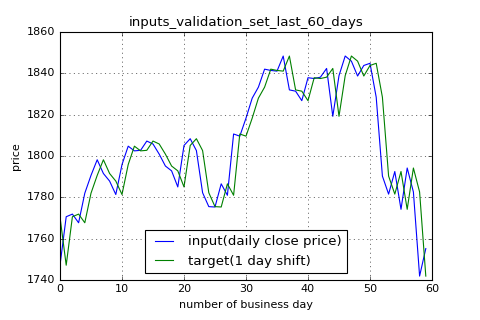
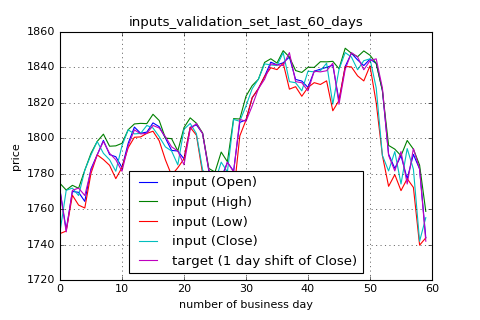
fix plotting issue, with 2000 epochs run results

diff --git a/helper.py b/helper.py
@@ -23,13 +23,12 @@ def data_split(X, y, test_size):
     X_test = X[split_idx:]
     y_test = y[split_idx:]
     
-    print("========================")
+    print("==================================================")
     print("Original total size = {}".format(total_len))
-    print("X_train.shape = {}".format(X_train.shape))
-    print("y_train.shape = {}".format(y_train.shape))
-    print("X: train size = {}, test size = {}".format(len(X_train), len(X_test)))
-    print("y: train size = {}, test size = {}".format(len(y_train), len(y_test)))
-    print("========================")
+    print("split ratio = {}, {}".format((1 - test_size), test_size))
+    print("First part: X.shape = {}, y.shape = {}".format(X_train.shape, y_train.shape))
+    print("Second part: X.shape = {}, y.shape = {}".format(X_test.shape, y_test.shape))
+    print("==================================================")
     
     return X_train, X_test, y_train, y_test
 
@@ -39,8 +38,10 @@ def data_preprocess(df, day_shift, date_list, feature_list):
     print("raw data df.head(): ")
     print(df.head())
     
+    print("==================================================")
     print("DATE_LIST = {}".format(date_list))
     print("FEATURE_LIST = {}".format(feature_list))
+    print("==================================================")
     
     extract_list = date_list + feature_list
     df = df[extract_list]
@@ -52,6 +53,7 @@ def data_preprocess(df, day_shift, date_list, feature_list):
         else:
             print("No missing data in feature of '{}'".format(feature))
     
+    print("==================================================")
     print("Extracted df.head(): ")
     print(df.head())
 
@@ -84,10 +86,14 @@ def plot_samples(title, x_label, y_label, data, line_label, images_dir, save_ima
     plt.title(title)
     plt.xlabel(x_label)
     plt.ylabel(y_label)
-
+    
+    # print("data[0].shape = {}".format(data[0].shape))
+    # print("len(data) = {}".format(len(data)))
+    # data[i] is np.array of m x n, which m = input length, n = feature length
     for i in range(len(data)):
         x = [idx for idx in range(len(data[i]))]
-        plt.plot(x, data[i], label = "{}".format(line_label[i]))
+        for line_idx in range(data[i].shape[1]):
+            plt.plot(x, data[i][:, line_idx], label = line_label[line_idx])
 
     plt.grid()
     
@@ -98,7 +104,7 @@ def plot_samples(title, x_label, y_label, data, line_label, images_dir, save_ima
     return None
 
 def plot_data(X_train_valid_test, y_train_valid_test, day_shift,
-              images_dir, save_images):
+              images_dir, save_images, feature_list):
     partial_day = 60
     postfix = "_last_" + str(partial_day) + "_days"
     title = ["inputs_" + "training_set" + postfix, 
@@ -106,23 +112,19 @@ def plot_data(X_train_valid_test, y_train_valid_test, day_shift,
              "inputs_" + "test_set" + postfix]
     x_label = "number of business day"
     y_label = "price"
-    line_label = ["input" + "(daily close price)",
-                  "target" + "(" + str(day_shift) + " day shift)"]
-#==============================================================================
-#     line_label = []
-#     for i in range(len(feature_list)):
-#         line_label.append("input" + "(daily" + feature_list[i] + ")")
-#     line_label = 
-#                   "target" + "(" + str(day_shift) + " day shift)"]
-#==============================================================================
-    
+
+    line_label = []
+    for i in range(len(feature_list)):
+        line_label.append("input" + " (" + feature_list[i] + ")")
+    line_label.append("target" + " (" + str(day_shift) + " day shift of Close)")
+
     # plot the training/validation/test set    
     for i in range(len(title)):
-        # data = [X_train_valid_test[i], y_train_valid_test[i]]
-        data = [X_train_valid_test[i][-partial_day:], 
-                y_train_valid_test[i][-partial_day:]]
-        plot_samples(title[i], x_label, y_label, data, line_label, images_dir, save_images)
-    
+        # concatenate y to the right for plotting
+        data = [np.concatenate((X_train_valid_test[i][-partial_day:], 
+                                y_train_valid_test[i][-partial_day:]), axis=1)]
+        plot_samples(title[i], x_label, y_label, data, line_label, 
+                     images_dir, save_images)
     return None
 
 def plot_results(y_train, pred_train, y_valid, pred_valid, images_dir, save_images):
@@ -139,14 +141,19 @@ def plot_results(y_train, pred_train, y_valid, pred_valid, images_dir, save_imag
     line_label = ["target value", "predition value"]
     
     # title = ["Training set"]
-    data_full = [y_train[:], pred_train[:]]
-    data_partial = [y_train[-60:], pred_train[-60:]]
+
+    # data_full = [y_train[:], pred_train[:]]
+    # data_partial = [y_train[-60:], pred_train[-60:]]
+    data_full = [np.concatenate((y_train[:], pred_train[:]), axis=1)]
+    data_partial = [np.concatenate((y_train[-partial_day:], pred_train[-partial_day:]), axis=1)]
     plot_samples(title[0], x_label, y_label, data_full, line_label, images_dir, save_images)
     plot_samples(title[1], x_label, y_label, data_partial, line_label, images_dir, save_images)
     
     # title = ["Validation set"]
-    data_full = [y_valid[:], pred_valid[:]]
-    data_partial = [y_valid[-partial_day:], pred_valid[-partial_day:]]
+    # data_full = [y_valid[:], pred_valid[:]]
+    # data_partial = [y_valid[-partial_day:], pred_valid[-partial_day:]]
+    data_full = [np.concatenate((y_valid[:], pred_valid[:]), axis=1)]
+    data_partial = [np.concatenate((y_valid[-partial_day:], pred_valid[-partial_day:]), axis=1)]
     plot_samples(title[2], x_label, y_label, data_full, line_label, images_dir, save_images)
     plot_samples(title[3], x_label, y_label, data_partial, line_label, images_dir, save_images)
     

diff --git a/stock.py b/stock.py
@@ -53,9 +53,11 @@ def flatten(x_tensor, name):
     with tf.name_scope(name):
         result = tf.reshape(x_tensor, [-1, flatten_dim], name=name)
         tf.summary.histogram("flatten_layer", result)
-    print("flatten")
+    print("==================================================")
+    print("flatten:")
     print("x_tensor = {}".format(x_tensor))
     print("result = {}".format(result))
+    print("==================================================")
     return result
 
 def fully_connect(x_tensor, num_outputs, name):
@@ -63,6 +65,7 @@ def fully_connect(x_tensor, num_outputs, name):
     Apply a fully connection layers
     """
     shape_list = x_tensor.get_shape().as_list()
+    print("==================================================")
     print("fully_connect: ")
     print("input shape = {}".format(shape_list))
     with tf.name_scope(name):
@@ -74,6 +77,7 @@ def fully_connect(x_tensor, num_outputs, name):
                                  name=name)
         tf.summary.histogram("fully_connect_layer", result)
     print("result = {}".format(result))
+    print("==================================================")
     return result
 
 def output(x_tensor, num_outputs, name):
@@ -298,7 +302,7 @@ def naive_model(X_train_valid_test, y_train_valid_test):
 def main():
     turn_on_tf_board = True
     # turn_on_txt_log = True
-    save_images = False  
+    save_images = True  
     single_run = True
     
     file_manager.backup_files([TF_LOGDIR, TXT_LOGDIR, IMAGES_DIR])
@@ -314,11 +318,11 @@ def main():
                                                                     FEATURE_LIST)
     
     helper.plot_data(X_train_valid_test, y_train_valid_test,
-                     DAY_SHIFT, IMAGES_DIR, save_images)
+                     DAY_SHIFT, IMAGES_DIR, save_images, FEATURE_LIST)
     
     # Hyper parameters default values
     lr = 1E-3
-    epochs = 100
+    epochs = 2000
     # batch_size = 128
     batch_size = 32
     hidden_layers = [16, 32]

diff --git a/README.md b/README.md
@@ -37,3 +37,15 @@ using **spyder** to run stock.py (Recommended)
 ![sample_plot_3](./assets/result_validation_set_full.png)  
 ![sample_plot_4](./assets/result_validation_set_last_60_days.png)  
 
+**Program Flow:**  
+   * import raw data (pandas)  
+   * preprocess data (pandas & numpy)  
+   * no normalization & shuffle for training  
+      * the idea is to preserve the time series information or pattern  
+   * build mlp_net (TensorFlow)  
+   * build the graph and train (TensorFlow & TensorBoard)  
+   * run grid search for fine tuning hyperparameters  
+   * compare results with Naive Model  
+      * Naive Model: simply take mean() of the features as the prediction value  
+   * output tensorboard meta-data or txt logs or images  
+   * explore the data of multple runs by using TensorBoard  
